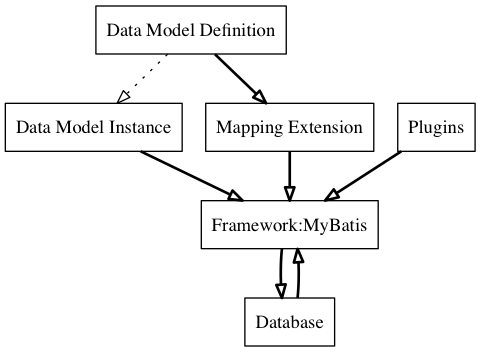
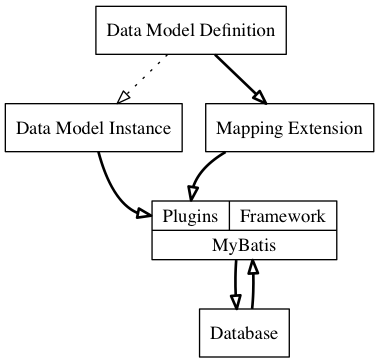
oct 17

diff --git a/draft.md b/draft.md
@@ -344,9 +344,15 @@ $$
 ###第三章 ORM实现
 
 ####一 扩展总体结构设计
+　　既然我们的ORM是通过分析代码中的对象定义，根据定义生成MyBatis中的动态SQL映射，在系统运行时就可以通过一般的MyBatis数据访问流程将对象实例中域值映射到动态SQL中。所以我们需要解决的问题就很清晰了：
 
+* 如何解析数据模型对象的结构
+* 如何使用已解析的对象结构生成动态SQL映射生成MyBatis可使用的映射描述单元
 
-####二 数据模型对象相关
+　　参考这样的问题基础，我们可以给出TORM的总体结构，如图：
+　　<center>![](diagram/Design.png)</center>
+
+#####二 数据模型对象相关
 　　在ORM的定义中，我们其实已经对DMO的定义做出了描述，但作为数据库访问层框架，只有DMO的映射定义是不够的，因为对象与数据库中的关系毕竟是异构的，无法直接提供给应用的SQL生成来使用。所以，同时我们还要定义在应用中的符合数据库关系结构的对象定义，并提供上述两者对象之间转化的方法。
 
 #####1、数据模型对象定义
@@ -376,49 +382,107 @@ $$
 
 　　其转化过程可简单以下图描述：
 
-　　<center>![Mou icon](diagram/dmoanalyze.png)</center>
+　　<center>![](diagram/dmoanalyze.png)</center>
 　　
-####MyBatis
-#####MyBatis简介
-#####MyBatis动态SQL的定义形式分析（采用接口形式）
-XML形式（功能全面，不利于动态加载）
-接口形式（功能不完整，动态加载较方便）
-	纯接口（基于注解，不灵活）
-	接口+SqlProvider（结构稍复杂，灵活）
-#####动态SQL定义的生成与加载
-#####定义的生成（源码级别）
-接口定义
-SqlProvider类定义
-Sql模板定义
-#####定义的加载
-MyBatis懒加载
-#####定义的执行
-MyBatis一般执行形式
-####小结
+####三 动态SQL定义、生成与加载
+#####1、动态SQL的定义
+　　MyBatis的动态SQL定义分为两种形式，一种较为常见的是使用其特定语法定义的XML Mapper文件，另一种则是使用Java接口及其方法注解。
 
-###ORM功能扩展性提供
-不同层次的扩展性分析
-####TORM源码扩展
-#####数据对象解析扩展
-注解扩展
-数据模型对象读、写、初始化扩展
-关系对象初始化扩展
-#####MyBatis动态SQL接口扩展
-模板扩展
-SqlProvider扩展
-接口方法扩展（不需要）
-#####比较重要的待扩展项
-适应常用复杂度的JOIN操作定义扩展
-####MyBatis插件扩展
-#####MyBatis插件对TORM执行的兼容性分析
-#####已有扩展的设计与描述
-数据库方言
-数据字段加解密
-分页查询
-#####比较重要的待扩展项
-其他非逻辑定语的扩展
-####暂时不确定的扩展
-批量处理的扩展形式思考
+　　接口形式的定义是MyBatis的底层实现形式，XML形式也是基于Mapper文件用AOP的方式在JVM中动态生成相应地类实例和对象实例（虽然和对开发者开放的接口形式有所不同）。对此我们可以模拟MyBatis自身的实现，以字节码或源码级别的结构拼接符合我们需求的动态SQL定义接口，将其加载到应用所在JVM。
+
+　　XML形式为大多数MyBatis使用者采用，其特点是结构清晰、语法集合丰富，几乎能实现所有数据库相关的需求。但XML在MyBatis调用时，还是通过MyBatis使用的AOP方法生成相应地接口字节码及其实例，然后添加到MyBatis的Mapper集合中，也就意味着会带来的额外的成本。但这不是最不利于TORM的特征，XML形式由于使用文件形式存储，如果我们需要动态地去管理这些Mapper，也就需要相应地系统文件权限，同时MyBatis对XML Mapper的加载在其自身框架加载之中，我们也就无法根据需要选择我们希望的加载时间点。
+
+　　所以，接口形式的定义是TORM比较理想的实现方式。而对于接口形式定义的实现中我们又有两套方案供选择：
+
+* 纯接口，接口方法加以包含动态SQL定义的注解；
+* 接口加SQL提供类，在接口中定义数据库访问方法，而在SQL提供类中实现动态SQL拼接。
+
+　　由于纯接口形式的定义在MyBatis中提供的功能太少，只能完成最为基础的CRUD操作，也无法根据实例域值进行逻辑判断，也就无法实现我们根据DMO中域属性完成ORM定制的需求。因此我们选择接口加SQL提供类的形式来定义动态SQL。
+
+　　在这种形式下，我们定义数据操作接口及SQL提供类形式如下：
+
+	/** 数据操作接口**/
+	public interface ISomeOperation<T>{
+		@SelectProvider("SomeProvider.selectOne")
+		public T selectOne(T dmo);
+	}
+　　
+
+	/** SQL提供类 **/
+	public class SomeProvider{
+		public String selectOne(T dmo){
+			//基于MyBatis SqlBuilder提供拼接实现
+			return null;
+		}
+	}
+
+#####2、动态SQL的生成
+######Javassit
+　　MyBatis对接口形式的具有比较简单清晰的定义形式，对此我们采取Javassit这样源码级的AOP工具来实现接口相关类实例的生成。Javassist是一个分析、编辑和创建Java字节码的类库。这里我们用它来生成需要的动态SQL定义接口及SQL提供类。我们选取他的理由就是Javassist可以使用源码级的实现来完成Java字节码文件的构造，这大大降低了我们的开发难度。虽然Javassist在性能上比直接使用字节码拼接略低，但由于TORM的动态SQL定义加载只需在启动时或定义首次调用时触发，所以对于一个长时间稳定运行的系统而言，这些开销几乎可以忽略不计。
+
+######代码模板
+　　使用Javassit拼接字节码文件时，过程是类似Java手动编写的。所以我们需要定义一组用于拼接的代码模板，包含了我们在TORM中会使用到的对象解析、属性判断和SQL拼接代码。其中必要模板如下：
+
+* 类级定义模板，用于定义操作接口及SQL提供类的类级定义；
+* 方法定义模板，用于定义操作接口及SQL提供类中的具体方法源码模板；
+* 注解定义模板，用于定义操作接口中方法的MyBatis映射注解；
+* 属性判断模板，用于在SQL提供类中添加动态SQL的属性判断功能代码；
+* SQL拼接模板，用于SqlBuilder中生成、拼接具体SQL的源码模板；
+
+#####3、动态SQL的加载
+######环境
+　　TORM生成动态的接口类代码实例和SQL提供类代码示例时，没有特殊的环境限制，只需满足一条：在JVM中的类池里没有同路径下同名类文件即可。
+######步骤
+　　由于一个应用系统中，DMO数量可能会较多，如果在启动应用时一次加载会使启动时间存在一个虽然可以接受但不一样的延长。因此我们在TORM中使用懒加载机制，步骤如下：
+
+1. 在启动应用时使用一个TORM的加载池;
+2. 每次使用DMO进行数据访问时从该加载池中捞取对应接口;
+3. 如果存在则直接使用MyBatis中Dao层方法；
+4. 如果不存在则先生成SQL提供类，再生成数据访问接口类，再调用MyBatis中Dao层方法。
+
+#####4、动态SQL的执行
+　　动态SQL的执行与普通MyBatis过程一样，在定义好的MyBatis Dao中直接使用SqlSession的相关方法进行数据访问。
+　　
+####四 小结
+　　本章对TORM的实现做出了结构上的设计，并描述了每一环节的大致步骤。
+
+　　基于这样的设计，TORM的ORM扩展与MyBatis很好地解耦了，也就是说如果我们使用其他的动态SQL工具甚至JDBC等与数据库交互时，只需要适当改变其源码定义模板就可以适配。
+　　
+###第四章 ORM功能扩展性提供
+　　目前，TORM已经拥有了实现我们关系运算子集所有运算的基础功能。但是作为一个企业级的应用扩展，需要适应企业不断变更的需求以及一些特殊业务场景的需要是必须做到的。对此，我们将展开在不同层次上对TORM的扩展性分析。
+####一 对象操作扩展
+　　对象操作扩展是一种比较简单的扩展场景，由于特殊的业务需求，比如非全体的格式转化和缺省数据的初始化等（尤其是一些在应用对象中没有意义却在数据库中有意义的数据值，反之亦然）。对于数据模型对象的相关扩展，建议使用AOP形式，对其构造函数及setter/getter进行拦截，并加入对应的业务逻辑，这样侵入性小、可配置性强，而且不需要修改TORM原有代码及结构。
+
+####二 TORM源码扩展
+　　虽然源码扩展是相对麻烦的一种场景，但某些情况下我们不得不采取这种方案，比如我们需要添加新的运算支持，常见的就是关系连接运算。　　
+
+#####1、数据访问接口方法扩展
+　　当我们需要为TORM添加一个全新的数据库操作时，我们首先需要在数据库访问接口中为其添加新的对应方法。大致步骤如下：
+
+1. 定义新的接口方法模板；
+2. 定义新的数据操作实现相关模板；
+3. 定义新的SQL提供类模板；
+4. 应用中添加新的MyBatis Dao层调用方法。
+
+#####2、查询谓词或谓词条件扩展
+　　所谓查询谓词扩展，对于TORM而言基本可以等同去添加新的非逻辑谓词，如GroupBy、OrderBy等，谓词条件扩展则是对谓词逻辑条件中的逻辑运算符进行扩展。而谓词与SQL对应的解释与拼接分处于TORM的两个部分：数据模型对象-关系对象映射、SQL提供类动态SQL生成。而在这两步中我们对原始结构，也就是数据模型对象，的解析都是基于其属性域结构和属性域上的注解解析，所以查询谓词或谓词条件扩展也就可以理解为对DMO结构的扩展或DMO属性域注解扩展。
+　　由于TORM的实现归根结底都是由其Javassist拼接源码模板，所以除了定义新的扩展注解之后，所有需要做的就只有在TORM的源码模板中添加新的解析及拼接代码，然而这是依赖于具体需求的，这里就不做展开了。
+
+####三 MyBatis插件扩展
+　　在开发不涉及到ORM特性的数据库访问层扩展时，如果我们希望既可以使用到TORM又不需要改动它，那么这时我们可以直接使用MyBatis的插件机制。
+#####1、MyBatis插件对TORM执行的兼容性分析
+　　TORM是我们基于MyBatis进行的一次非插件级扩展，那么在使用它时，MyBatis的插件是否能应用到其中呢？答案的分析非常简单：我们使用TORM无论其中间过程如何，最终都是抓华为MyBatis的动态SQL实现，而MyBatis的插件使用代理链机制，其代理链的出入口都处于MyBatis的动态SQL Mapper，所以我们只需要保证使用的插件处于代理链中，那插件本身必然会对TORM的所有操作发生作用且不会发生冲突。
+#####2、已有扩展的设计与描述
+　　现在的TORM本身还实现了一些常见的插件集合：
+
+* 数据库方言
+* 数据字段加解密
+* 分页查询
+
+####四 重要扩展的思考
+#####1、SQL批量处理
+#####2、简单连接查询
+####五 小结
 
 ##结论
 ###目前研究成果及意义
